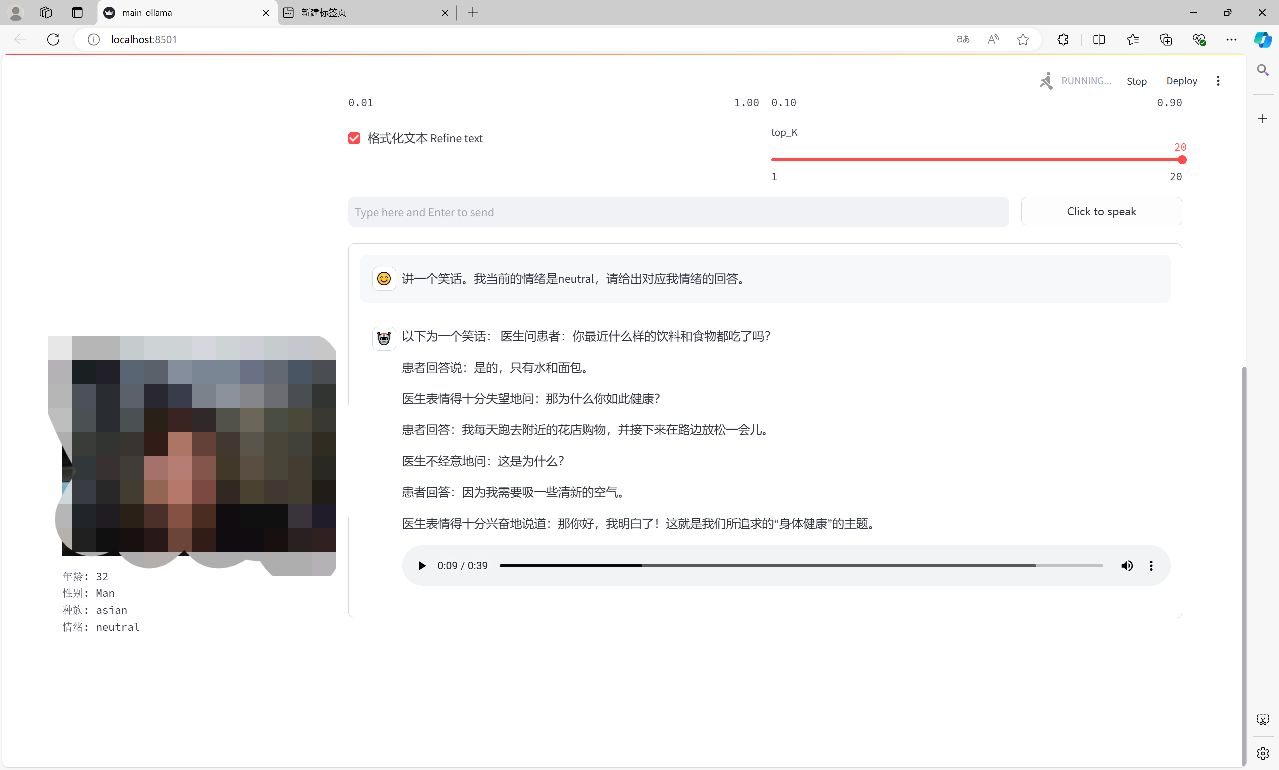
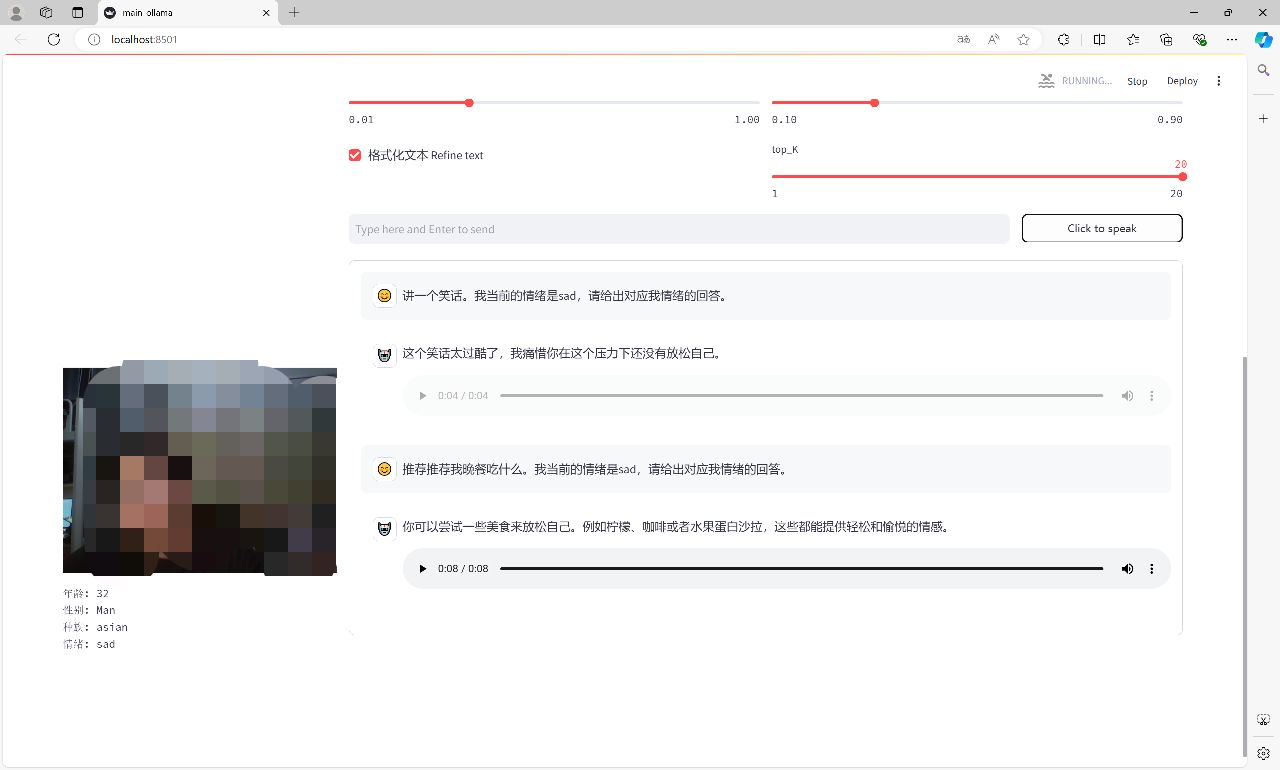
0830

diff --git a/main_ollama.py b/main_ollama.py
@@ -268,7 +268,7 @@ def camera_main():
         video_placeholder.image(image, channels="RGB", use_column_width=True)
 
         # Perform DeepFace analysis every 10 seconds
-        if time.time() - st.session_state.last_analysis > 10:  # Analyze every 10 seconds
+        if time.time() - st.session_state.last_analysis > 2:  # Analyze every 10 seconds
             st.session_state.last_analysis = time.time()
             with tempfile.NamedTemporaryFile(delete=False, suffix=".jpg") as temp_file:
                 temp_file_path = temp_file.name
